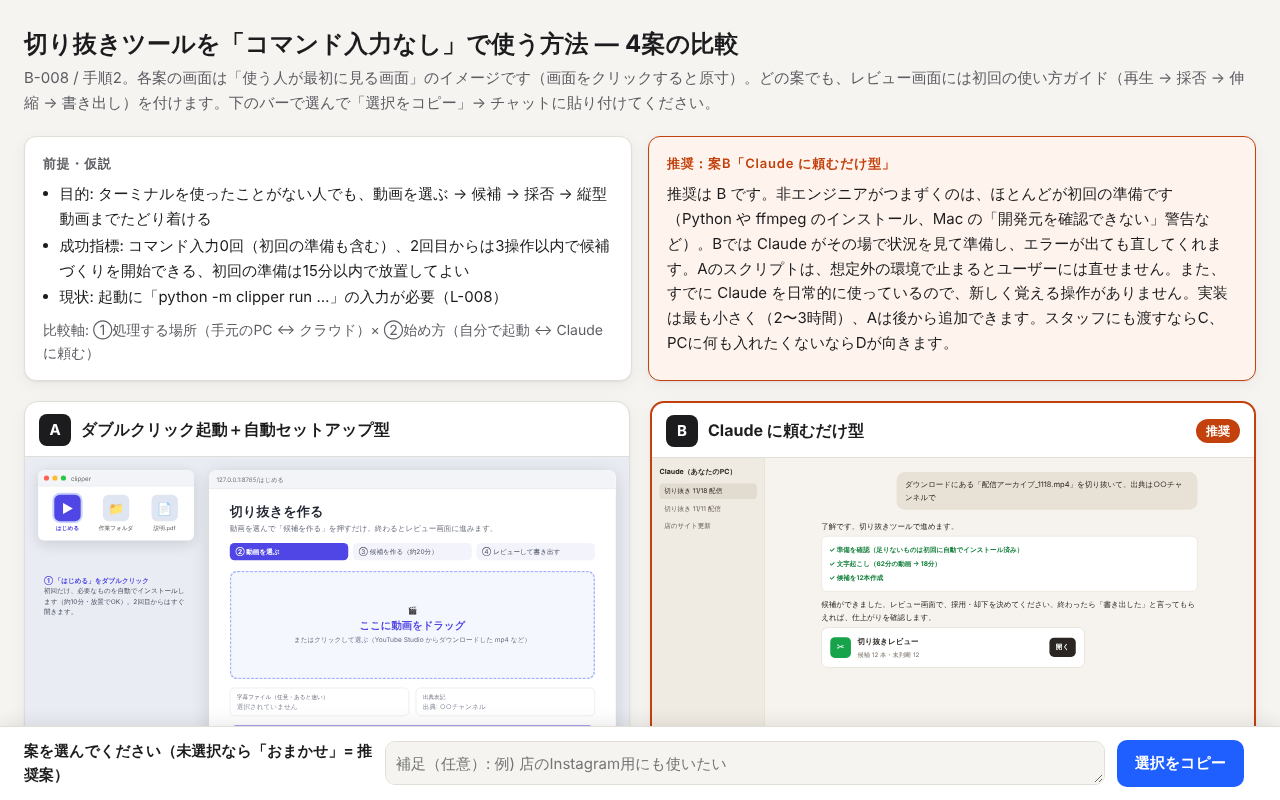
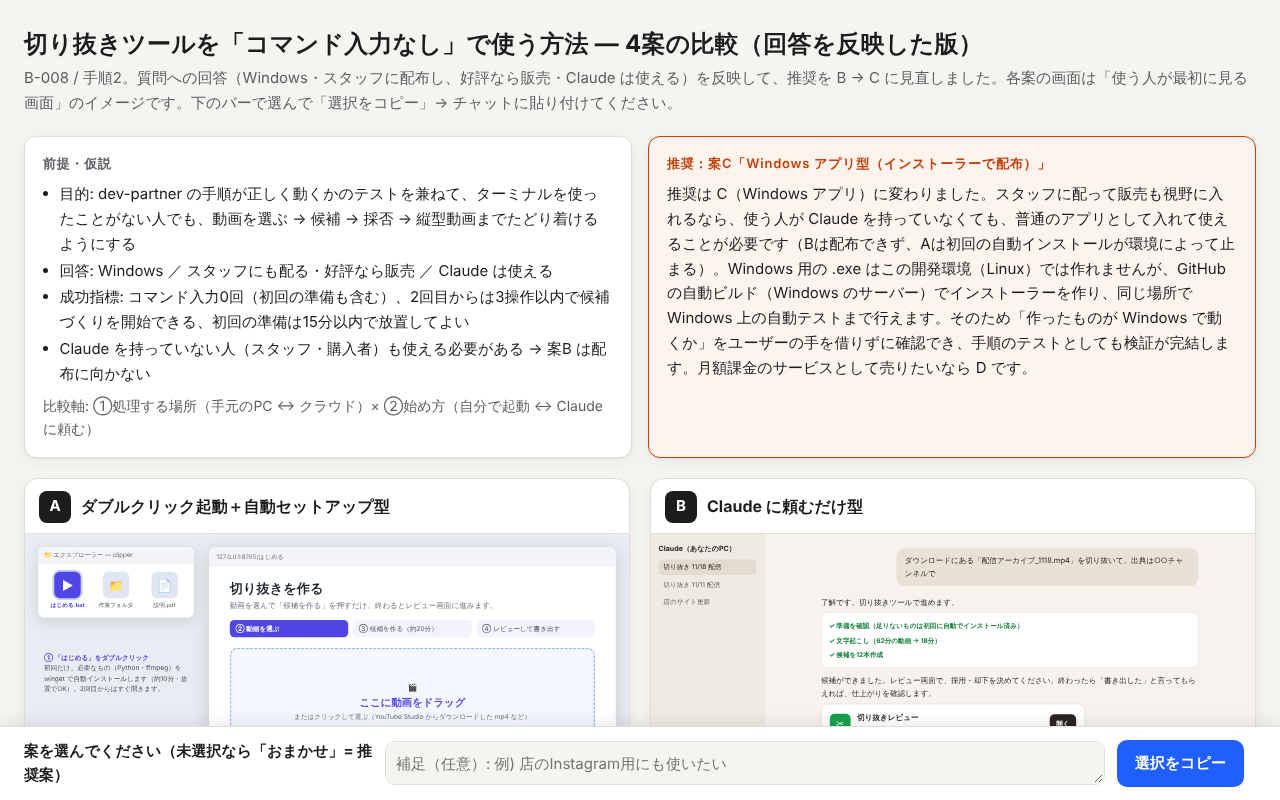
B-008: 質問への回答（Windows・スタッフ配布/販売）を反映し、推奨を C（Windows アプリ型）に見直し
Claude-Session: https://claude.ai/code/session_01Xq3qQiwqojBZwPyy3z5Yva

diff --git a/.dev-partner/data/works/youtube-clipper/B-008/compare.html b/.dev-partner/data/works/youtube-clipper/B-008/compare.html
@@ -1,6 +1,6 @@
 <!doctype html>
 <html lang="ja"><head><meta charset="utf-8"><meta name="viewport" content="width=device-width,initial-scale=1">
-<title>切り抜きツールを「コマンド入力なし」で使う方法 — 4案の比較</title><style>
+<title>切り抜きツールを「コマンド入力なし」で使う方法 — 4案の比較（回答を反映した版）</title><style>
 :root{--bg:#f5f4f0;--card:#fff;--ink:#1c1c1e;--sub:#5d5d63;--line:#e0ded7;--accent:#1f5eff;
 --rec:#c2410c;--rec-bg:#fff4ed;--chip:#efeee9;--shadow:0 1px 2px rgba(0,0,0,.06),0 4px 16px rgba(0,0,0,.05)}
 @media (prefers-color-scheme:dark){:root:not([data-theme=light]){--bg:#121214;--card:#1c1c20;--ink:#f1f1f3;
@@ -64,8 +64,8 @@ dialog iframe{border:0;display:block;background:#fff}
 .bar textarea{order:3;flex-basis:100%;height:40px}}
 </style></head>
 <body><div class="wrap">
-<header><h1>切り抜きツールを「コマンド入力なし」で使う方法 — 4案の比較</h1><p class="lead">B-008 / 手順2。各案の画面は「使う人が最初に見る画面」のイメージです（画面をクリックすると原寸）。どの案でも、レビュー画面には初回の使い方ガイド（再生 → 採否 → 伸縮 → 書き出し）を付けます。下のバーで選んで「選択をコピー」→ チャットに貼り付けてください。</p></header>
-<div class="ctx"><div class="box"><h2>前提・仮説</h2><ul><li>目的: ターミナルを使ったことがない人でも、動画を選ぶ → 候補 → 採否 → 縦型動画までたどり着ける</li><li>成功指標: コマンド入力0回（初回の準備も含む）、2回目からは3操作以内で候補づくりを開始できる、初回の準備は15分以内で放置してよい</li><li>現状: 起動に「python -m clipper run …」の入力が必要（L-008）</li></ul><p style="margin-top:8px;color:var(--sub);font-size:14px">比較軸: ①処理する場所（手元のPC ↔ クラウド）× ②始め方（自分で起動 ↔ Claude に頼む）</p></div><div class="box rec"><h2>推奨：案B「Claude に頼むだけ型」</h2><p>推奨は B です。非エンジニアがつまずくのは、ほとんどが初回の準備です（Python や ffmpeg のインストール、Mac の「開発元を確認できない」警告など）。Bでは Claude がその場で状況を見て準備し、エラーが出ても直してくれます。Aのスクリプトは、想定外の環境で止まるとユーザーには直せません。また、すでに Claude を日常的に使っているので、新しく覚える操作がありません。実装は最も小さく（2〜3時間）、Aは後から追加できます。スタッフにも渡すならC、PCに何も入れたくないならDが向きます。</p></div></div>
+<header><h1>切り抜きツールを「コマンド入力なし」で使う方法 — 4案の比較（回答を反映した版）</h1><p class="lead">B-008 / 手順2。質問への回答（Windows・スタッフに配布し、好評なら販売・Claude は使える）を反映して、推奨を B → C に見直しました。各案の画面は「使う人が最初に見る画面」のイメージです。下のバーで選んで「選択をコピー」→ チャットに貼り付けてください。</p></header>
+<div class="ctx"><div class="box"><h2>前提・仮説</h2><ul><li>目的: dev-partner の手順が正しく動くかのテストを兼ねて、ターミナルを使ったことがない人でも、動画を選ぶ → 候補 → 採否 → 縦型動画までたどり着けるようにする</li><li>回答: Windows ／ スタッフにも配る・好評なら販売 ／ Claude は使える</li><li>成功指標: コマンド入力0回（初回の準備も含む）、2回目からは3操作以内で候補づくりを開始できる、初回の準備は15分以内で放置してよい</li><li>Claude を持っていない人（スタッフ・購入者）も使える必要がある → 案B は配布に向かない</li></ul><p style="margin-top:8px;color:var(--sub);font-size:14px">比較軸: ①処理する場所（手元のPC ↔ クラウド）× ②始め方（自分で起動 ↔ Claude に頼む）</p></div><div class="box rec"><h2>推奨：案C「Windows アプリ型（インストーラーで配布）」</h2><p>推奨は C（Windows アプリ）に変わりました。スタッフに配って販売も視野に入れるなら、使う人が Claude を持っていなくても、普通のアプリとして入れて使えることが必要です（Bは配布できず、Aは初回の自動インストールが環境によって止まる）。Windows 用の .exe はこの開発環境（Linux）では作れませんが、GitHub の自動ビルド（Windows のサーバー）でインストーラーを作り、同じ場所で Windows 上の自動テストまで行えます。そのため「作ったものが Windows で動くか」をユーザーの手を借りずに確認でき、手順のテストとしても検証が完結します。月額課金のサービスとして売りたいなら D です。</p></div></div>
 <div class="grid">
 <article class="card" data-id="A" data-name="ダブルクリック起動＋自動セットアップ型">
   <div class="ch"><div class="cid">A</div><div class="cname">ダブルクリック起動＋自動セットアップ型</div></div>
@@ -95,9 +95,9 @@ h1{font-size:28px}.sub{color:#6b7080;margin:4px 0 20px}
 .f em{display:block;font-style:normal;font-size:12px;color:#6b7080;margin-bottom:2px}
 .go{margin-top:20px;background:#4f46e5;color:#fff;font-weight:800;font-size:20px;text-align:center;border-radius:12px;padding:16px}
 &lt;/style&gt;&lt;/head&gt;&lt;body&gt;
-&lt;div class=&quot;finder&quot;&gt;&lt;div class=&quot;fbar&quot;&gt;&lt;i style=&quot;background:#ff5f57&quot;&gt;&lt;/i&gt;&lt;i style=&quot;background:#febc2e&quot;&gt;&lt;/i&gt;&lt;i style=&quot;background:#28c840&quot;&gt;&lt;/i&gt;&amp;nbsp;clipper&lt;/div&gt;
- &lt;div class=&quot;files&quot;&gt;&lt;div class=&quot;hit&quot;&gt;&lt;div class=&quot;ic&quot;&gt;▶&lt;/div&gt;はじめる&lt;/div&gt;&lt;div&gt;&lt;div class=&quot;ic&quot;&gt;📁&lt;/div&gt;作業フォルダ&lt;/div&gt;&lt;div&gt;&lt;div class=&quot;ic&quot;&gt;📄&lt;/div&gt;説明.pdf&lt;/div&gt;&lt;/div&gt;&lt;/div&gt;
-&lt;div class=&quot;tip&quot;&gt;&lt;b&gt;① 「はじめる」をダブルクリック&lt;/b&gt;&lt;br&gt;初回だけ、必要なものを自動でインストールします（約10分・放置でOK）。2回目からはすぐ開きます。&lt;/div&gt;
+&lt;div class=&quot;finder&quot;&gt;&lt;div class=&quot;fbar&quot;&gt;📁 エクスプローラー — clipper&lt;/div&gt;
+ &lt;div class=&quot;files&quot;&gt;&lt;div class=&quot;hit&quot;&gt;&lt;div class=&quot;ic&quot;&gt;▶&lt;/div&gt;はじめる.bat&lt;/div&gt;&lt;div&gt;&lt;div class=&quot;ic&quot;&gt;📁&lt;/div&gt;作業フォルダ&lt;/div&gt;&lt;div&gt;&lt;div class=&quot;ic&quot;&gt;📄&lt;/div&gt;説明.pdf&lt;/div&gt;&lt;/div&gt;&lt;/div&gt;
+&lt;div class=&quot;tip&quot;&gt;&lt;b&gt;① 「はじめる」をダブルクリック&lt;/b&gt;&lt;br&gt;初回だけ、必要なもの（Python・ffmpeg）を winget で自動インストールします（約10分・放置でOK）。2回目からはすぐ開きます。&lt;/div&gt;
 &lt;div class=&quot;win&quot;&gt;&lt;div class=&quot;url&quot;&gt;127.0.0.1:8765/はじめる&lt;/div&gt;&lt;div class=&quot;in&quot;&gt;
  &lt;h1&gt;切り抜きを作る&lt;/h1&gt;&lt;p class=&quot;sub&quot;&gt;動画を選んで「候補を作る」を押すだけ。終わるとレビュー画面に進みます。&lt;/p&gt;
  &lt;div class=&quot;steps&quot;&gt;&lt;span class=&quot;on&quot;&gt;② 動画を選ぶ&lt;/span&gt;&lt;span&gt;③ 候補を作る（約20分）&lt;/span&gt;&lt;span&gt;④ レビューして書き出す&lt;/span&gt;&lt;/div&gt;
@@ -107,12 +107,12 @@ h1{font-size:28px}.sub{color:#6b7080;margin:4px 0 20px}
 &lt;/div&gt;&lt;/div&gt;
 &lt;/body&gt;&lt;/html&gt;
 " title="案A"></iframe></div>
-  <dl><dt>狙い</dt><dd>フォルダの「はじめる」をダブルクリック → 初回だけ必要なものを自動でインストール → ブラウザの画面で動画をドラッグして「候補を作る」</dd><dt>向くケース</dt><dd>Claude を使わずに単体で動かしたい。動画を手元から出したくない</dd><dt>弱点</dt><dd>初回の自動インストールが環境によって止まることがあり（Mac の警告、ffmpeg の入手など）、止まったときにユーザーは直せない。Mac と Windows で起動ファイルを別々に用意する必要がある</dd><dt>規模</dt><dd>半日〜1日（工数2）</dd></dl>
+  <dl><dt>狙い</dt><dd>フォルダの「はじめる」をダブルクリック → 初回だけ必要なものを自動でインストール → ブラウザの画面で動画をドラッグして「候補を作る」</dd><dt>向くケース</dt><dd>Claude を使わずに、自分のPCで手早く単体で動かしたい（配布はしない）</dd><dt>弱点</dt><dd>初回の自動インストール（winget で Python と ffmpeg）が環境や権限によって止まり、止まったときにユーザーは直せない。配布はZIPで渡すことになり、販売には向かない</dd><dt>規模</dt><dd>半日〜1日（工数2）</dd></dl>
   <div class="tags"><span>処理: 手元のPC</span><span>始め方: ダブルクリック</span><span>費用: 無料</span></div>
   <div class="pick"><label><input type="radio" name="pick" value="A">この案にする</label></div>
 </article>
-<article class="card is-rec" data-id="B" data-name="Claude に頼むだけ型">
-  <div class="ch"><div class="cid">B</div><div class="cname">Claude に頼むだけ型</div><span class="badge">推奨</span></div>
+<article class="card" data-id="B" data-name="Claude に頼むだけ型">
+  <div class="ch"><div class="cid">B</div><div class="cname">Claude に頼むだけ型</div></div>
   <div class="frame" data-title="案B「Claude に頼むだけ型」" title="クリックで原寸表示" style="aspect-ratio:1280/800"><iframe loading="lazy" srcdoc="&lt;!doctype html&gt;&lt;html lang=&quot;ja&quot;&gt;&lt;head&gt;&lt;meta charset=&quot;utf-8&quot;&gt;&lt;style&gt;
 *{box-sizing:border-box;margin:0;padding:0}
 body{width:1280px;height:800px;overflow:hidden;font-family:-apple-system,&quot;Hiragino Sans&quot;,&quot;Noto Sans JP&quot;,sans-serif;background:#f6f3ee;color:#2b2622}
@@ -144,47 +144,57 @@ body{width:1280px;height:800px;overflow:hidden;font-family:-apple-system,&quot;H
 &lt;div class=&quot;box&quot;&gt;「今週の配信も同じように」「字幕をもっと大きく」なども、話しかけるだけでOK&lt;/div&gt;
 &lt;/body&gt;&lt;/html&gt;
 " title="案B"></iframe></div>
-  <dl><dt>狙い</dt><dd>「この動画を切り抜いて」と話しかけるだけ。準備・実行・レビュー画面を開くところまで Claude がやり、書き出し後の確認や「字幕を大きく」などの調整も会話で済む</dd><dt>向くケース</dt><dd>普段から Claude（Claude Code / Cowork）を使っている人。初回の準備でつまずきたくない人</dd><dt>弱点</dt><dd>PCで Claude Code か Cowork を使えることが前提。Claude なしでは他の人に渡しにくい</dd><dt>規模</dt><dd>2〜3時間（工数1）</dd></dl>
+  <dl><dt>狙い</dt><dd>「この動画を切り抜いて」と話しかけるだけ。準備・実行・レビュー画面を開くところまで Claude がやり、書き出し後の確認や「字幕を大きく」などの調整も会話で済む</dd><dt>向くケース</dt><dd>普段から Claude（Claude Code / Cowork）を使っている人。初回の準備でつまずきたくない人</dd><dt>弱点</dt><dd>使う人全員が Claude Code か Cowork を使える必要がある。スタッフや購入者に配れない（今回の回答では不向き）</dd><dt>規模</dt><dd>2〜3時間（工数1）</dd></dl>
   <div class="tags"><span>処理: 手元のPC</span><span>始め方: Claude に頼む</span><span>費用: 無料（Claude の利用枠内）</span></div>
   <div class="pick"><label><input type="radio" name="pick" value="B">この案にする</label></div>
 </article>
-<article class="card" data-id="C" data-name="デスクトップアプリ型">
-  <div class="ch"><div class="cid">C</div><div class="cname">デスクトップアプリ型</div></div>
-  <div class="frame" data-title="案C「デスクトップアプリ型」" title="クリックで原寸表示" style="aspect-ratio:1280/800"><iframe loading="lazy" srcdoc="&lt;!doctype html&gt;&lt;html lang=&quot;ja&quot;&gt;&lt;head&gt;&lt;meta charset=&quot;utf-8&quot;&gt;&lt;style&gt;
+<article class="card is-rec" data-id="C" data-name="Windows アプリ型（インストーラーで配布）">
+  <div class="ch"><div class="cid">C</div><div class="cname">Windows アプリ型（インストーラーで配布）</div><span class="badge">推奨</span></div>
+  <div class="frame" data-title="案C「Windows アプリ型（インストーラーで配布）」" title="クリックで原寸表示" style="aspect-ratio:1280/800"><iframe loading="lazy" srcdoc="&lt;!doctype html&gt;&lt;html lang=&quot;ja&quot;&gt;&lt;head&gt;&lt;meta charset=&quot;utf-8&quot;&gt;&lt;style&gt;
 *{box-sizing:border-box;margin:0;padding:0}
-body{width:1280px;height:800px;overflow:hidden;font-family:-apple-system,&quot;Hiragino Sans&quot;,&quot;Noto Sans JP&quot;,sans-serif;background:linear-gradient(135deg,#7c8bb3,#b7a4c9);color:#1d1d1f}
-.dmg{position:absolute;left:36px;top:36px;width:300px;height:190px;background:rgba(255,255,255,.92);border-radius:14px;box-shadow:0 10px 30px rgba(0,0,0,.2);display:flex;align-items:center;justify-content:space-around;padding:20px;font-size:13px;color:#555;text-align:center}
-.dmg .app{width:64px;height:64px;border-radius:16px;background:linear-gradient(135deg,#ef4444,#f97316);display:grid;place-items:center;color:#fff;font-size:30px;margin:0 auto 6px}
-.dmg .arrow{font-size:28px;color:#888}
-.dmg .fold{width:64px;height:54px;border-radius:8px;background:#93c5fd;margin:0 auto 6px}
-.cap{position:absolute;left:36px;top:236px;width:300px;color:#fff;font-size:14px;line-height:1.6;text-shadow:0 1px 3px rgba(0,0,0,.3)}
-.win{position:absolute;left:370px;top:36px;right:36px;bottom:70px;background:#fbfbfd;border-radius:14px;box-shadow:0 20px 50px rgba(0,0,0,.3);overflow:hidden;display:grid;grid-template-rows:38px 1fr}
-.tb{background:#ececf0;display:flex;align-items:center;gap:7px;padding:0 12px;font-size:13px;color:#555;border-bottom:1px solid #dcdce2}
-.tb i{width:12px;height:12px;border-radius:50%;display:inline-block}
-.body{display:grid;grid-template-columns:210px 1fr}
-.sb{background:#f2f2f6;border-right:1px solid #e1e1e7;padding:16px 12px;font-size:13px;color:#555}
-.sb b{display:block;font-size:12px;color:#888;margin:4px 0 8px}
-.sb div{padding:7px 10px;border-radius:7px}.sb .on{background:#e1e1ea;color:#1d1d1f;font-weight:600}
-.mn{padding:34px 40px}
-.mn h1{font-size:26px;margin-bottom:6px}.mn p{color:#6e6e73;margin-bottom:22px}
-.drop{height:250px;border:2px dashed #c7c7d1;border-radius:16px;display:grid;place-items:center;text-align:center;color:#6e6e73;font-size:15px;background:#fff}
-.drop b{display:block;font-size:20px;color:#1d1d1f;margin:6px 0}
-.go{margin-top:18px;width:220px;margin-left:auto;background:#f97316;color:#fff;font-weight:800;text-align:center;border-radius:10px;padding:12px}
-.dock{position:absolute;left:50%;transform:translateX(-50%);bottom:10px;background:rgba(255,255,255,.4);border-radius:16px;padding:6px 10px;display:flex;gap:10px}
-.dock i{width:42px;height:42px;border-radius:10px;background:rgba(255,255,255,.7);display:block}
-.dock .me{background:linear-gradient(135deg,#ef4444,#f97316)}
+body{width:1280px;height:800px;overflow:hidden;font-family:&quot;Segoe UI&quot;,&quot;Yu Gothic UI&quot;,&quot;Meiryo&quot;,&quot;Noto Sans JP&quot;,sans-serif;background:linear-gradient(160deg,#1e3a8a,#3b82f6 55%,#93c5fd);color:#1b1b1b}
+.inst{position:absolute;left:30px;top:30px;width:330px;background:#fff;border-radius:8px;box-shadow:0 12px 32px rgba(0,0,0,.3);overflow:hidden;font-size:13px}
+.inst .tb{height:32px;display:flex;align-items:center;justify-content:space-between;padding:0 10px;background:#f3f3f3;color:#333}
+.inst .bd{padding:16px 18px}
+.inst .ic{width:48px;height:48px;border-radius:12px;background:linear-gradient(135deg,#ef4444,#f97316);color:#fff;display:grid;place-items:center;font-size:24px;float:left;margin-right:12px}
+.inst b{font-size:15px}.inst p{color:#555;margin:4px 0 12px;clear:none}
+.inst .bar{clear:both;height:8px;background:#e5e5e5;border-radius:4px;overflow:hidden;margin-top:14px}.inst .bar i{display:block;width:70%;height:100%;background:#0067c0}
+.inst .btns{display:flex;justify-content:flex-end;gap:8px;margin-top:14px}.inst .btns span{border:1px solid #ccc;border-radius:4px;padding:5px 14px}
+.inst .btns .p{background:#0067c0;color:#fff;border-color:#0067c0}
+.cap{position:absolute;left:30px;top:250px;width:330px;color:#fff;font-size:14px;line-height:1.7;text-shadow:0 1px 3px rgba(0,0,0,.35)}
+.cap b{display:block;font-size:15px}
+.win{position:absolute;left:390px;top:30px;right:30px;bottom:66px;background:#fafafa;border-radius:8px;box-shadow:0 20px 50px rgba(0,0,0,.35);overflow:hidden;display:grid;grid-template-rows:34px 1fr;border:1px solid #c9c9c9}
+.wt{display:flex;align-items:center;justify-content:space-between;padding-left:12px;background:#f3f3f3;font-size:13px;color:#333}
+.wt .ctl{display:flex}.wt .ctl span{width:46px;text-align:center;line-height:34px;font-size:14px}
+.body{display:grid;grid-template-columns:200px 1fr}
+.sb{background:#f0f0f0;border-right:1px solid #e0e0e0;padding:14px 10px;font-size:13px;color:#444}
+.sb b{display:block;font-size:12px;color:#888;margin:2px 0 8px}
+.sb div{padding:7px 10px;border-radius:5px}.sb .on{background:#e1e9f5;color:#0b3d91;font-weight:600}
+.mn{padding:30px 36px}
+.mn h1{font-size:24px;margin-bottom:6px;font-weight:700}.mn p{color:#666;margin-bottom:20px}
+.drop{height:240px;border:2px dashed #b8c4d6;border-radius:10px;display:grid;place-items:center;text-align:center;color:#666;font-size:15px;background:#fff}
+.drop b{display:block;font-size:20px;color:#1b1b1b;margin:6px 0}
+.row{display:flex;gap:12px;margin-top:14px}.f{flex:1;border:1px solid #d0d0d0;border-radius:6px;padding:8px 12px;font-size:13px;color:#888;background:#fff}
+.go{margin-top:16px;width:220px;margin-left:auto;background:#0067c0;color:#fff;font-weight:700;text-align:center;border-radius:6px;padding:11px}
+.task{position:absolute;left:0;right:0;bottom:0;height:48px;background:rgba(243,243,243,.92);display:flex;justify-content:center;align-items:center;gap:10px}
+.task i{width:34px;height:34px;border-radius:6px;background:#cfd8e3;display:block}
+.task .me{background:linear-gradient(135deg,#ef4444,#f97316);box-shadow:0 3px 0 -1px #0067c0}
 &lt;/style&gt;&lt;/head&gt;&lt;body&gt;
-&lt;div class=&quot;dmg&quot;&gt;&lt;div&gt;&lt;div class=&quot;app&quot;&gt;✂&lt;/div&gt;clipper.app&lt;/div&gt;&lt;div class=&quot;arrow&quot;&gt;→&lt;/div&gt;&lt;div&gt;&lt;div class=&quot;fold&quot;&gt;&lt;/div&gt;アプリケーション&lt;/div&gt;&lt;/div&gt;
-&lt;div class=&quot;cap&quot;&gt;配られた「clipper.dmg」を開いて、アプリをドラッグするだけ。&lt;br&gt;ffmpeg などはアプリの中に入っている（約500MB）。&lt;/div&gt;
-&lt;div class=&quot;win&quot;&gt;&lt;div class=&quot;tb&quot;&gt;&lt;i style=&quot;background:#ff5f57&quot;&gt;&lt;/i&gt;&lt;i style=&quot;background:#febc2e&quot;&gt;&lt;/i&gt;&lt;i style=&quot;background:#28c840&quot;&gt;&lt;/i&gt;&amp;nbsp; clipper&lt;/div&gt;
+&lt;div class=&quot;inst&quot;&gt;&lt;div class=&quot;tb&quot;&gt;&lt;span&gt;clipper セットアップ&lt;/span&gt;&lt;span&gt;✕&lt;/span&gt;&lt;/div&gt;&lt;div class=&quot;bd&quot;&gt;
+ &lt;div class=&quot;ic&quot;&gt;✂&lt;/div&gt;&lt;b&gt;clipper をインストールしています&lt;/b&gt;&lt;p&gt;ffmpeg・文字起こしの部品も一緒に入ります（約500MB）&lt;/p&gt;
+ &lt;div class=&quot;bar&quot;&gt;&lt;i&gt;&lt;/i&gt;&lt;/div&gt;&lt;div class=&quot;btns&quot;&gt;&lt;span&gt;キャンセル&lt;/span&gt;&lt;span class=&quot;p&quot;&gt;次へ&lt;/span&gt;&lt;/div&gt;&lt;/div&gt;&lt;/div&gt;
+&lt;div class=&quot;cap&quot;&gt;&lt;b&gt;配られた「clipper-setup.exe」を開くだけ&lt;/b&gt;あとは「次へ」を押していけばインストール完了。スタート メニューとデスクトップにアイコンができます。&lt;br&gt;※ 署名なしの間は、初回に「Windows によって PC が保護されました」→「詳細情報」→「実行」が必要&lt;/div&gt;
+&lt;div class=&quot;win&quot;&gt;&lt;div class=&quot;wt&quot;&gt;&lt;span&gt;✂ clipper&lt;/span&gt;&lt;span class=&quot;ctl&quot;&gt;&lt;span&gt;—&lt;/span&gt;&lt;span&gt;☐&lt;/span&gt;&lt;span&gt;✕&lt;/span&gt;&lt;/span&gt;&lt;/div&gt;
  &lt;div class=&quot;body&quot;&gt;&lt;div class=&quot;sb&quot;&gt;&lt;b&gt;最近の作業&lt;/b&gt;&lt;div class=&quot;on&quot;&gt;＋ 新しい切り抜き&lt;/div&gt;&lt;div&gt;11/18 配信アーカイブ&lt;/div&gt;&lt;div&gt;11/11 配信アーカイブ&lt;/div&gt;&lt;/div&gt;
- &lt;div class=&quot;mn&quot;&gt;&lt;h1&gt;新しい切り抜き&lt;/h1&gt;&lt;p&gt;普通のアプリと同じように、動画をウィンドウに入れるだけ。&lt;/p&gt;
-  &lt;div class=&quot;drop&quot;&gt;&lt;div&gt;🎬&lt;b&gt;動画をここにドロップ&lt;/b&gt;mp4 / mov / mkv&lt;/div&gt;&lt;/div&gt;&lt;div class=&quot;go&quot;&gt;候補を作る&lt;/div&gt;&lt;/div&gt;&lt;/div&gt;&lt;/div&gt;
-&lt;div class=&quot;dock&quot;&gt;&lt;i&gt;&lt;/i&gt;&lt;i&gt;&lt;/i&gt;&lt;i class=&quot;me&quot;&gt;&lt;/i&gt;&lt;i&gt;&lt;/i&gt;&lt;/div&gt;
+ &lt;div class=&quot;mn&quot;&gt;&lt;h1&gt;新しい切り抜き&lt;/h1&gt;&lt;p&gt;動画をウィンドウに入れて「候補を作る」を押すだけ。終わるとレビュー画面に進みます。&lt;/p&gt;
+  &lt;div class=&quot;drop&quot;&gt;&lt;div&gt;🎬&lt;b&gt;動画をここにドロップ&lt;/b&gt;またはクリックして選ぶ（mp4 / mov / mkv）&lt;/div&gt;&lt;/div&gt;
+  &lt;div class=&quot;row&quot;&gt;&lt;div class=&quot;f&quot;&gt;字幕ファイル（任意・あると速い）&lt;/div&gt;&lt;div class=&quot;f&quot;&gt;出典: ○○チャンネル&lt;/div&gt;&lt;/div&gt;
+  &lt;div class=&quot;go&quot;&gt;候補を作る&lt;/div&gt;&lt;/div&gt;&lt;/div&gt;&lt;/div&gt;
+&lt;div class=&quot;task&quot;&gt;&lt;i&gt;&lt;/i&gt;&lt;i&gt;&lt;/i&gt;&lt;i class=&quot;me&quot;&gt;&lt;/i&gt;&lt;i&gt;&lt;/i&gt;&lt;i&gt;&lt;/i&gt;&lt;/div&gt;
 &lt;/body&gt;&lt;/html&gt;
 " title="案C"></iframe></div>
-  <dl><dt>狙い</dt><dd>ffmpeg などを同梱した普通のアプリ（.app / .exe）にする。インストールはドラッグするだけ</dd><dt>向くケース</dt><dd>スタッフや知人にも配りたい。Claude を使わない人にも渡したい</dd><dt>弱点</dt><dd>作るのが重い（OSごとにビルドし、警告を出さないための署名も必要）。サイズは約500MB。更新のたびに配り直しが必要</dd><dt>規模</dt><dd>2〜3日＋署名の準備（工数4）</dd></dl>
-  <div class="tags"><span>処理: 手元のPC</span><span>始め方: アプリを開く</span><span>費用: Apple の開発者登録 年1.2万円程度</span></div>
+  <dl><dt>狙い</dt><dd>ffmpeg・文字起こしの部品を同梱した Windows アプリ。インストーラー（clipper-setup.exe）を開いて「次へ」を押すだけ。動画をウィンドウに入れて「候補を作る」</dd><dt>向くケース</dt><dd>スタッフに配りたい。好評なら販売したい。Claude を持っていない人にも使ってほしい</dd><dt>弱点</dt><dd>作るのが重い。署名がない間は、初回に「Windows によって PC が保護されました」が出る（スタッフなら回避手順で可、販売前に証明書が必要: 年2〜6万円程度）。サイズは約500MB。販売するなら同梱する ffmpeg のライセンス（GPL）への対応が必要</dd><dt>規模</dt><dd>2〜3日（工数4）。販売前の署名・ライセンス対応は別途</dd></dl>
+  <div class="tags"><span>処理: 手元のPC</span><span>始め方: アプリを開く</span><span>配布: インストーラー</span><span>テスト: Windows 上で自動</span></div>
   <div class="pick"><label><input type="radio" name="pick" value="C">この案にする</label></div>
 </article>
 <article class="card" data-id="D" data-name="クラウド版（ブラウザだけ）">
@@ -230,11 +240,11 @@ h1{font-size:26px}.sub{color:#94a3b8;margin:4px 0 22px}
 &lt;div class=&quot;cap&quot;&gt;採否はスマホからでもできる&lt;/div&gt;
 &lt;/body&gt;&lt;/html&gt;
 " title="案D"></iframe></div>
-  <dl><dt>狙い</dt><dd>PCに何も入れない。専用ページに動画をアップロードするとクラウドで処理され、採否はスマホからもできる</dd><dt>向くケース</dt><dd>PCに何もインストールしたくない。外出先やスマホで採否を決めたい。複数人で使う</dd><dt>弱点</dt><dd>サーバー代が月2,000〜5,000円かかる。60分の動画（数GB）のアップロードに時間がかかる。動画を外部に置くことになり、運用（障害対応・削除）も必要</dd><dt>規模</dt><dd>3〜5日（工数5）</dd></dl>
+  <dl><dt>狙い</dt><dd>PCに何も入れない。専用ページに動画をアップロードするとクラウドで処理され、採否はスマホからもできる</dd><dt>向くケース</dt><dd>月額課金のサービスとして売りたい。PCに何も入れたくない。スマホで採否を決めたい</dd><dt>弱点</dt><dd>サーバー代が月2,000〜5,000円かかる。60分の動画（数GB）のアップロードに時間がかかる。動画を外部に置くことになり、運用（障害対応・削除）も必要</dd><dt>規模</dt><dd>3〜5日（工数5）</dd></dl>
   <div class="tags"><span>処理: クラウド</span><span>始め方: ブラウザ</span><span>費用: 月額あり</span></div>
   <div class="pick"><label><input type="radio" name="pick" value="D">この案にする</label></div>
 </article></div>
-<section class="qs"><h2>確認したいこと（最大3つ・答えられる分だけ）</h2><div class="q box" data-id="Q1" data-label="PC"><div class="qt">Q1. お使いのPCは？</div><div class="hy">仮説（未回答ならこれで進めます）: Mac（Windows も同じ仕組みで後から対応）</div><div class="opts"><label><input type="radio" name="Q1" value="Mac">Mac</label><label><input type="radio" name="Q1" value="Windows">Windows</label><label><input type="radio" name="Q1" value="両方">両方</label></div></div><div class="q box" data-id="Q2" data-label="使う人"><div class="qt">Q2. このツールを使うのは誰？</div><div class="hy">仮説（未回答ならこれで進めます）: 自分だけ</div><div class="opts"><label><input type="radio" name="Q2" value="自分だけ">自分だけ</label><label><input type="radio" name="Q2" value="スタッフにも渡したい">スタッフにも渡したい</label></div></div><div class="q box" data-id="Q3" data-label="Claude"><div class="qt">Q3. PCで Claude（Claude Code または Cowork）を使える？</div><div class="hy">仮説（未回答ならこれで進めます）: 使える</div><div class="opts"><label><input type="radio" name="Q3" value="使える">使える</label><label><input type="radio" name="Q3" value="使えない・分からない">使えない・分からない</label></div></div></section><section class="ifa"><h2>回答次第で推奨はこう変わる</h2><table><tr><th>回答</th><th>推奨</th></tr><tr><td>Q3 = 使えない・分からない</td><td>A（ダブルクリック起動）。初回の準備でつまずいたときの手順書も付ける</td></tr><tr><td>Q2 = スタッフにも渡したい</td><td>C（アプリにして配る）。スマホで採否まで済ませたいなら D</td></tr><tr><td>Q1 = Windows</td><td>推奨は B のまま（Windows 用の準備も Claude が行う）。A の場合は起動ファイルを .bat で作る</td></tr></table></section>
+<section class="ifa"><h2>回答次第で推奨はこう変わる</h2><table><tr><th>回答</th><th>推奨</th></tr><tr><td>まず自分だけで、最短で試したい</td><td>B（2〜3時間。配布はできない）</td></tr><tr><td>月額課金のサービスとして売りたい</td><td>D（サーバー代と運用が必要）</td></tr><tr><td>配布せず、Claude も使わずに単体で動かしたい</td><td>A</td></tr></table></section>
 </div>
 <div class="bar"><div class="in"><div class="sel" id="sel"></div>
 <textarea id="memo" placeholder="補足（任意）: 例) 店のInstagram用にも使いたい"></textarea>

diff --git a/.dev-partner/data/works/youtube-clipper/B-008/candidates/C.html b/.dev-partner/data/works/youtube-clipper/B-008/candidates/C.html
@@ -1,32 +1,42 @@
 <!doctype html><html lang="ja"><head><meta charset="utf-8"><style>
 *{box-sizing:border-box;margin:0;padding:0}
-body{width:1280px;height:800px;overflow:hidden;font-family:-apple-system,"Hiragino Sans","Noto Sans JP",sans-serif;background:linear-gradient(135deg,#7c8bb3,#b7a4c9);color:#1d1d1f}
-.dmg{position:absolute;left:36px;top:36px;width:300px;height:190px;background:rgba(255,255,255,.92);border-radius:14px;box-shadow:0 10px 30px rgba(0,0,0,.2);display:flex;align-items:center;justify-content:space-around;padding:20px;font-size:13px;color:#555;text-align:center}
-.dmg .app{width:64px;height:64px;border-radius:16px;background:linear-gradient(135deg,#ef4444,#f97316);display:grid;place-items:center;color:#fff;font-size:30px;margin:0 auto 6px}
-.dmg .arrow{font-size:28px;color:#888}
-.dmg .fold{width:64px;height:54px;border-radius:8px;background:#93c5fd;margin:0 auto 6px}
-.cap{position:absolute;left:36px;top:236px;width:300px;color:#fff;font-size:14px;line-height:1.6;text-shadow:0 1px 3px rgba(0,0,0,.3)}
-.win{position:absolute;left:370px;top:36px;right:36px;bottom:70px;background:#fbfbfd;border-radius:14px;box-shadow:0 20px 50px rgba(0,0,0,.3);overflow:hidden;display:grid;grid-template-rows:38px 1fr}
-.tb{background:#ececf0;display:flex;align-items:center;gap:7px;padding:0 12px;font-size:13px;color:#555;border-bottom:1px solid #dcdce2}
-.tb i{width:12px;height:12px;border-radius:50%;display:inline-block}
-.body{display:grid;grid-template-columns:210px 1fr}
-.sb{background:#f2f2f6;border-right:1px solid #e1e1e7;padding:16px 12px;font-size:13px;color:#555}
-.sb b{display:block;font-size:12px;color:#888;margin:4px 0 8px}
-.sb div{padding:7px 10px;border-radius:7px}.sb .on{background:#e1e1ea;color:#1d1d1f;font-weight:600}
-.mn{padding:34px 40px}
-.mn h1{font-size:26px;margin-bottom:6px}.mn p{color:#6e6e73;margin-bottom:22px}
-.drop{height:250px;border:2px dashed #c7c7d1;border-radius:16px;display:grid;place-items:center;text-align:center;color:#6e6e73;font-size:15px;background:#fff}
-.drop b{display:block;font-size:20px;color:#1d1d1f;margin:6px 0}
-.go{margin-top:18px;width:220px;margin-left:auto;background:#f97316;color:#fff;font-weight:800;text-align:center;border-radius:10px;padding:12px}
-.dock{position:absolute;left:50%;transform:translateX(-50%);bottom:10px;background:rgba(255,255,255,.4);border-radius:16px;padding:6px 10px;display:flex;gap:10px}
-.dock i{width:42px;height:42px;border-radius:10px;background:rgba(255,255,255,.7);display:block}
-.dock .me{background:linear-gradient(135deg,#ef4444,#f97316)}
+body{width:1280px;height:800px;overflow:hidden;font-family:"Segoe UI","Yu Gothic UI","Meiryo","Noto Sans JP",sans-serif;background:linear-gradient(160deg,#1e3a8a,#3b82f6 55%,#93c5fd);color:#1b1b1b}
+.inst{position:absolute;left:30px;top:30px;width:330px;background:#fff;border-radius:8px;box-shadow:0 12px 32px rgba(0,0,0,.3);overflow:hidden;font-size:13px}
+.inst .tb{height:32px;display:flex;align-items:center;justify-content:space-between;padding:0 10px;background:#f3f3f3;color:#333}
+.inst .bd{padding:16px 18px}
+.inst .ic{width:48px;height:48px;border-radius:12px;background:linear-gradient(135deg,#ef4444,#f97316);color:#fff;display:grid;place-items:center;font-size:24px;float:left;margin-right:12px}
+.inst b{font-size:15px}.inst p{color:#555;margin:4px 0 12px;clear:none}
+.inst .bar{clear:both;height:8px;background:#e5e5e5;border-radius:4px;overflow:hidden;margin-top:14px}.inst .bar i{display:block;width:70%;height:100%;background:#0067c0}
+.inst .btns{display:flex;justify-content:flex-end;gap:8px;margin-top:14px}.inst .btns span{border:1px solid #ccc;border-radius:4px;padding:5px 14px}
+.inst .btns .p{background:#0067c0;color:#fff;border-color:#0067c0}
+.cap{position:absolute;left:30px;top:250px;width:330px;color:#fff;font-size:14px;line-height:1.7;text-shadow:0 1px 3px rgba(0,0,0,.35)}
+.cap b{display:block;font-size:15px}
+.win{position:absolute;left:390px;top:30px;right:30px;bottom:66px;background:#fafafa;border-radius:8px;box-shadow:0 20px 50px rgba(0,0,0,.35);overflow:hidden;display:grid;grid-template-rows:34px 1fr;border:1px solid #c9c9c9}
+.wt{display:flex;align-items:center;justify-content:space-between;padding-left:12px;background:#f3f3f3;font-size:13px;color:#333}
+.wt .ctl{display:flex}.wt .ctl span{width:46px;text-align:center;line-height:34px;font-size:14px}
+.body{display:grid;grid-template-columns:200px 1fr}
+.sb{background:#f0f0f0;border-right:1px solid #e0e0e0;padding:14px 10px;font-size:13px;color:#444}
+.sb b{display:block;font-size:12px;color:#888;margin:2px 0 8px}
+.sb div{padding:7px 10px;border-radius:5px}.sb .on{background:#e1e9f5;color:#0b3d91;font-weight:600}
+.mn{padding:30px 36px}
+.mn h1{font-size:24px;margin-bottom:6px;font-weight:700}.mn p{color:#666;margin-bottom:20px}
+.drop{height:240px;border:2px dashed #b8c4d6;border-radius:10px;display:grid;place-items:center;text-align:center;color:#666;font-size:15px;background:#fff}
+.drop b{display:block;font-size:20px;color:#1b1b1b;margin:6px 0}
+.row{display:flex;gap:12px;margin-top:14px}.f{flex:1;border:1px solid #d0d0d0;border-radius:6px;padding:8px 12px;font-size:13px;color:#888;background:#fff}
+.go{margin-top:16px;width:220px;margin-left:auto;background:#0067c0;color:#fff;font-weight:700;text-align:center;border-radius:6px;padding:11px}
+.task{position:absolute;left:0;right:0;bottom:0;height:48px;background:rgba(243,243,243,.92);display:flex;justify-content:center;align-items:center;gap:10px}
+.task i{width:34px;height:34px;border-radius:6px;background:#cfd8e3;display:block}
+.task .me{background:linear-gradient(135deg,#ef4444,#f97316);box-shadow:0 3px 0 -1px #0067c0}
 </style></head><body>
-<div class="dmg"><div><div class="app">✂</div>clipper.app</div><div class="arrow">→</div><div><div class="fold"></div>アプリケーション</div></div>
-<div class="cap">配られた「clipper.dmg」を開いて、アプリをドラッグするだけ。<br>ffmpeg などはアプリの中に入っている（約500MB）。</div>
-<div class="win"><div class="tb"><i style="background:#ff5f57"></i><i style="background:#febc2e"></i><i style="background:#28c840"></i>&nbsp; clipper</div>
+<div class="inst"><div class="tb"><span>clipper セットアップ</span><span>✕</span></div><div class="bd">
+ <div class="ic">✂</div><b>clipper をインストールしています</b><p>ffmpeg・文字起こしの部品も一緒に入ります（約500MB）</p>
+ <div class="bar"><i></i></div><div class="btns"><span>キャンセル</span><span class="p">次へ</span></div></div></div>
+<div class="cap"><b>配られた「clipper-setup.exe」を開くだけ</b>あとは「次へ」を押していけばインストール完了。スタート メニューとデスクトップにアイコンができます。<br>※ 署名なしの間は、初回に「Windows によって PC が保護されました」→「詳細情報」→「実行」が必要</div>
+<div class="win"><div class="wt"><span>✂ clipper</span><span class="ctl"><span>—</span><span>☐</span><span>✕</span></span></div>
  <div class="body"><div class="sb"><b>最近の作業</b><div class="on">＋ 新しい切り抜き</div><div>11/18 配信アーカイブ</div><div>11/11 配信アーカイブ</div></div>
- <div class="mn"><h1>新しい切り抜き</h1><p>普通のアプリと同じように、動画をウィンドウに入れるだけ。</p>
-  <div class="drop"><div>🎬<b>動画をここにドロップ</b>mp4 / mov / mkv</div></div><div class="go">候補を作る</div></div></div></div>
-<div class="dock"><i></i><i></i><i class="me"></i><i></i></div>
+ <div class="mn"><h1>新しい切り抜き</h1><p>動画をウィンドウに入れて「候補を作る」を押すだけ。終わるとレビュー画面に進みます。</p>
+  <div class="drop"><div>🎬<b>動画をここにドロップ</b>またはクリックして選ぶ（mp4 / mov / mkv）</div></div>
+  <div class="row"><div class="f">字幕ファイル（任意・あると速い）</div><div class="f">出典: ○○チャンネル</div></div>
+  <div class="go">候補を作る</div></div></div></div>
+<div class="task"><i></i><i></i><i class="me"></i><i></i><i></i></div>
 </body></html>

diff --git a/.dev-partner/data/works/youtube-clipper/B-008/candidates/A.html b/.dev-partner/data/works/youtube-clipper/B-008/candidates/A.html
@@ -24,9 +24,9 @@ h1{font-size:28px}.sub{color:#6b7080;margin:4px 0 20px}
 .f em{display:block;font-style:normal;font-size:12px;color:#6b7080;margin-bottom:2px}
 .go{margin-top:20px;background:#4f46e5;color:#fff;font-weight:800;font-size:20px;text-align:center;border-radius:12px;padding:16px}
 </style></head><body>
-<div class="finder"><div class="fbar"><i style="background:#ff5f57"></i><i style="background:#febc2e"></i><i style="background:#28c840"></i>&nbsp;clipper</div>
- <div class="files"><div class="hit"><div class="ic">▶</div>はじめる</div><div><div class="ic">📁</div>作業フォルダ</div><div><div class="ic">📄</div>説明.pdf</div></div></div>
-<div class="tip"><b>① 「はじめる」をダブルクリック</b><br>初回だけ、必要なものを自動でインストールします（約10分・放置でOK）。2回目からはすぐ開きます。</div>
+<div class="finder"><div class="fbar">📁 エクスプローラー — clipper</div>
+ <div class="files"><div class="hit"><div class="ic">▶</div>はじめる.bat</div><div><div class="ic">📁</div>作業フォルダ</div><div><div class="ic">📄</div>説明.pdf</div></div></div>
+<div class="tip"><b>① 「はじめる」をダブルクリック</b><br>初回だけ、必要なもの（Python・ffmpeg）を winget で自動インストールします（約10分・放置でOK）。2回目からはすぐ開きます。</div>
 <div class="win"><div class="url">127.0.0.1:8765/はじめる</div><div class="in">
  <h1>切り抜きを作る</h1><p class="sub">動画を選んで「候補を作る」を押すだけ。終わるとレビュー画面に進みます。</p>
  <div class="steps"><span class="on">② 動画を選ぶ</span><span>③ 候補を作る（約20分）</span><span>④ レビューして書き出す</span></div>

diff --git a/.dev-partner/data/works/youtube-clipper/B-008/01-candidates.md b/.dev-partner/data/works/youtube-clipper/B-008/01-candidates.md
@@ -1,7 +1,7 @@
 # B-008 clipper をコマンド入力なしで使えるようにする — 候補（01-candidates）
 
-**状態: 選択待ち**（2026-11-19 提示）
-**次にやること:** ユーザーが案を選んだら手順3（`02-spec.md`、`samples/`）へ進む。「おまかせ」なら推奨のBで進める。
+**状態: 選択待ち**（2026-11-19 提示 → 同日、質問への回答を受けて推奨を **B → C** に見直し）
+**次にやること:** ユーザーが案を選んだら手順3（`02-spec.md`、`samples/`）へ進む。「おまかせ」なら推奨のCで進める。
 質問（Q1〜Q3）への回答があれば `00-brief.md` を更新し、下の表に従って推奨を見直す。
 
 - 比較ページ: `compare.html`。スクショ: `shots/compare-1280.png`、`shots/compare-390.png`
@@ -12,25 +12,25 @@
 | 案 | 名前 | 狙い | 向くケース | 弱点 | 工数 |
 |---|---|---|---|---|---|
 | A | ダブルクリック起動＋自動セットアップ型 | 「はじめる」をダブルクリック → 初回だけ自動でインストール → 画面で動画をドラッグ | Claude なしの単体で使いたい | 環境によって自動インストールが止まり、ユーザーには直せない。OSごとに起動ファイルが必要 | 半日〜1日 |
-| **B（推奨）** | Claude に頼むだけ型 | 「この動画を切り抜いて」と話しかけるだけ。準備・実行・レビュー画面を開くまで Claude が行う | 普段から Claude を使っている人 | PCで Claude Code か Cowork が使えることが前提 | 2〜3時間 |
-| C | デスクトップアプリ型 | ffmpeg などを同梱したアプリ（.app / .exe）にする | スタッフにも配りたい | 作るのが重い（ビルド・署名）。約500MB | 2〜3日＋署名 |
+| B | Claude に頼むだけ型 | 「この動画を切り抜いて」と話しかけるだけ。準備・実行・レビュー画面を開くまで Claude が行う | 普段から Claude を使っている人 | PCで Claude Code か Cowork が使えることが前提 | 2〜3時間 |
+| **C（推奨）** | Windows アプリ型 | ffmpeg・文字起こしを同梱した Windows アプリ。インストーラーで配布 | スタッフに配る・販売もありうる | 作るのが重い。署名がない間は初回に警告が出る。販売前に証明書（年2〜6万円）と ffmpeg のライセンス（GPL）への対応が必要 | 2〜3日 |
 | D | クラウド版 | アップロードするだけ。採否はスマホからもできる | PCに何も入れたくない。複数人で使う | 月2,000〜5,000円かかる。アップロードに時間がかかる。動画を外部に置く | 3〜5日 |
 
-## 推奨: B とその理由
-- 非エンジニアがつまずくのは、ほとんどが初回の準備（インストールや警告）。Bでは Claude がその場で状況を見て準備し、エラーが出ても直せる。
-- ユーザーはすでに Claude を日常的に使っており、新しく覚える操作がない。
-- 実装が最も小さく、Aは後から追加できる。
+## 質問への回答（2026-11-19）
+- Windows
+- スタッフにも配る。好評なら販売もありうる
+- Claude は使える
+- この案件の主目的は、dev-partner の手順が正しく動くかのテスト
 
-## 質問（未回答なら仮説で進める）
-| # | 質問 | 仮説 |
-|---|---|---|
-| Q1 | お使いのPCは？ | Mac |
-| Q2 | 使うのは誰？ | 自分だけ |
-| Q3 | PCで Claude（Claude Code または Cowork）を使える？ | 使える |
+## 推奨: C とその理由（B から見直し）
+- スタッフや購入者は Claude を持っていない前提。B は配布できず、A は初回の自動インストールが環境によって止まる
+- Windows 用の .exe はこの開発環境（Linux）では作れない。GitHub の自動ビルド（Windows のサーバー）でインストーラーを作り、同じ場所で Windows 上の自動テストまで行える
+- そのため「Windows で動くか」をユーザーの手を借りずに確かめられ、手順のテストとしても検証が完結する
+- 月額課金のサービスとして売りたいなら D
 
-## 回答次第で推奨はこう変わる
-| 回答 | 推奨 |
+## まだ決めていないことで、推奨が変わるもの
+| 条件 | 推奨 |
 |---|---|
-| Q3 = 使えない・分からない | A |
-| Q2 = スタッフにも渡したい | C（スマホで採否まで済ませたいなら D） |
-| Q1 = Windows | B のまま（A なら .bat で作る） |
+| まず自分だけで、最短で試したい | B（2〜3時間。配布はできない） |
+| 月額課金のサービスとして売りたい | D |
+| 配布せず、Claude も使わずに単体で動かしたい | A |

diff --git a/.dev-partner/data/works/youtube-clipper/B-008/00-brief.md b/.dev-partner/data/works/youtube-clipper/B-008/00-brief.md
@@ -1,14 +1,25 @@
 # B-008 clipper をコマンド入力なしで使えるようにする — 要件（00-brief）
 
-状態: 手順1完了 → 手順2（候補提示）で**ユーザーの選択待ち**
+状態: 手順2（候補提示）→ 質問への回答を受けて推奨を見直し（2026-11-19）。**ユーザーの選択待ち**
 区分: 【拡張】P-002（使う人・扱うデータは同じ。入口だけを変える）
+
+## 質問への回答（2026-11-19）
+- Q1 PC: **Windows**（仮説の Mac は外れた）
+- Q2 使う人: **スタッフにも配る。好評なら販売もありうる**（仮説の「自分だけ」は外れた）
+- Q3 Claude: 使える
+- 補足: この案件の主目的は、**dev-partner の手順（最初に渡したプロンプト）が正しく動くかのテスト**。出来によっては配布・販売する。
+
+→ 要件への影響:
+- 対象は Windows で、Claude を持っていない人（スタッフ・購入者）も含む
+- そのため「Claude に頼むだけ型（B）」は配布できない
+- 販売するなら、コード署名とライセンス（ffmpeg）への対応が必要になる
 
 ## 目的（推定）
 ターミナルを使ったことがない人でも、説明書を読まずに次の流れを最後までできるようにする。
 自分の動画を選ぶ → 候補ができる → 採否を決める → 縦型の動画が手に入る
 
 ## ターゲット（推定）
-- ユーザー本人（非エンジニア。普段は Claude のチャット・Claude Code・Cowork を使っている）
+- ユーザー本人とスタッフ（非エンジニア・Windows）。将来は購入者も
 - 動画は自分のPCにある（YouTube Studio からダウンロードしたもの）
 
 ## 成功指標（L-008 により「使い始め」の基準を必ず入れる）

diff --git a/.dev-partner/data/backlog.md b/.dev-partner/data/backlog.md
@@ -129,4 +129,5 @@
 - 価値5の根拠: これがないと、対象ユーザーがそもそも使い始められない。
 - 工数2の根拠: 既存の処理（run の各段階）を画面から呼ぶだけ。半日。
 - 決定: 2026-11-19「おまかせ」で着手（B-004 の実機確認はこれが前提になるため先に行う）
-- 次のアクション: 候補A〜Dから選択待ち（推奨B「Claude に頼むだけ型」。Q1〜Q3の回答も受付中）→ 選ばれたら手順3（works/youtube-clipper/B-008/02-spec.md）
+- 回答: Windows／スタッフにも配る・好評なら販売／Claude は使える。主目的は dev-partner の手順のテスト
+- 次のアクション: 候補A〜Dから選択待ち（推奨は回答を受けて **C「Windows アプリ型」** に変更）→ 選ばれたら手順3（works/youtube-clipper/B-008/02-spec.md）

diff --git a/.dev-partner/data/works/youtube-clipper/B-008/LOG.md b/.dev-partner/data/works/youtube-clipper/B-008/LOG.md
@@ -3,3 +3,4 @@
 書式: `- YYYY-MM-DD [原因分類] 何が起きたか → どうしたか`
 
 - 2026-11-19 [指示の曖昧さ] 「おまかせ」で B-008 に決まったが、B-008 自体の案（起動方式）の選択までおまかせに含むか迷った → 案は手順2で提示し、選択を待つ（ユーザーが定めた「案を選ぶまで実装に進まない」を優先）
+- 2026-11-19 [指示の曖昧さ] 質問への回答で仮説が2つ外れた（Mac → **Windows**、自分だけ → **スタッフに配布・好評なら販売**）。あわせて、この案件の主目的が「dev-partner の手順が正しく動くかのテスト」だと分かった → 要件と推奨を見直し（推奨 B → C）、比較ページを作り直した。対象ユーザーと配布の範囲は推定せず、手順1で必ず質問すべき項目だった
